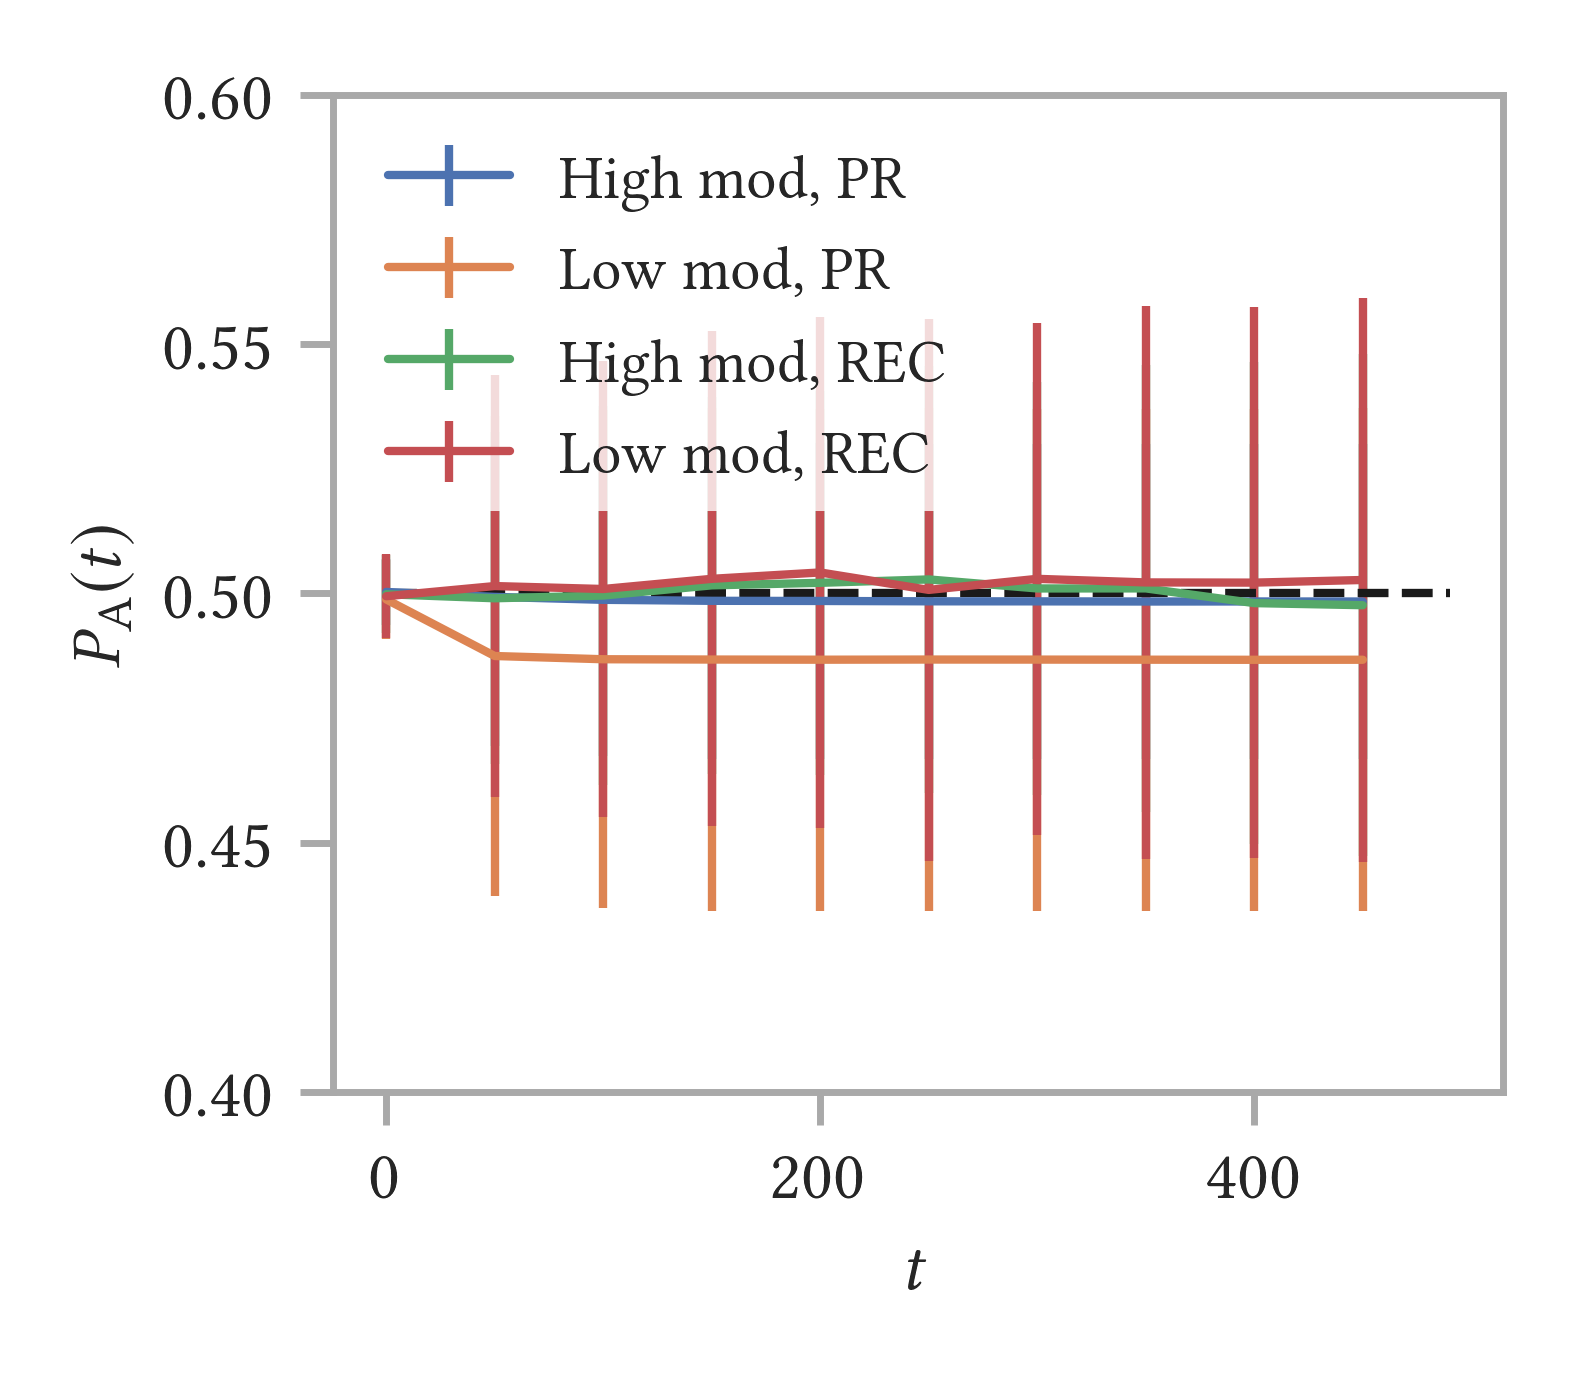
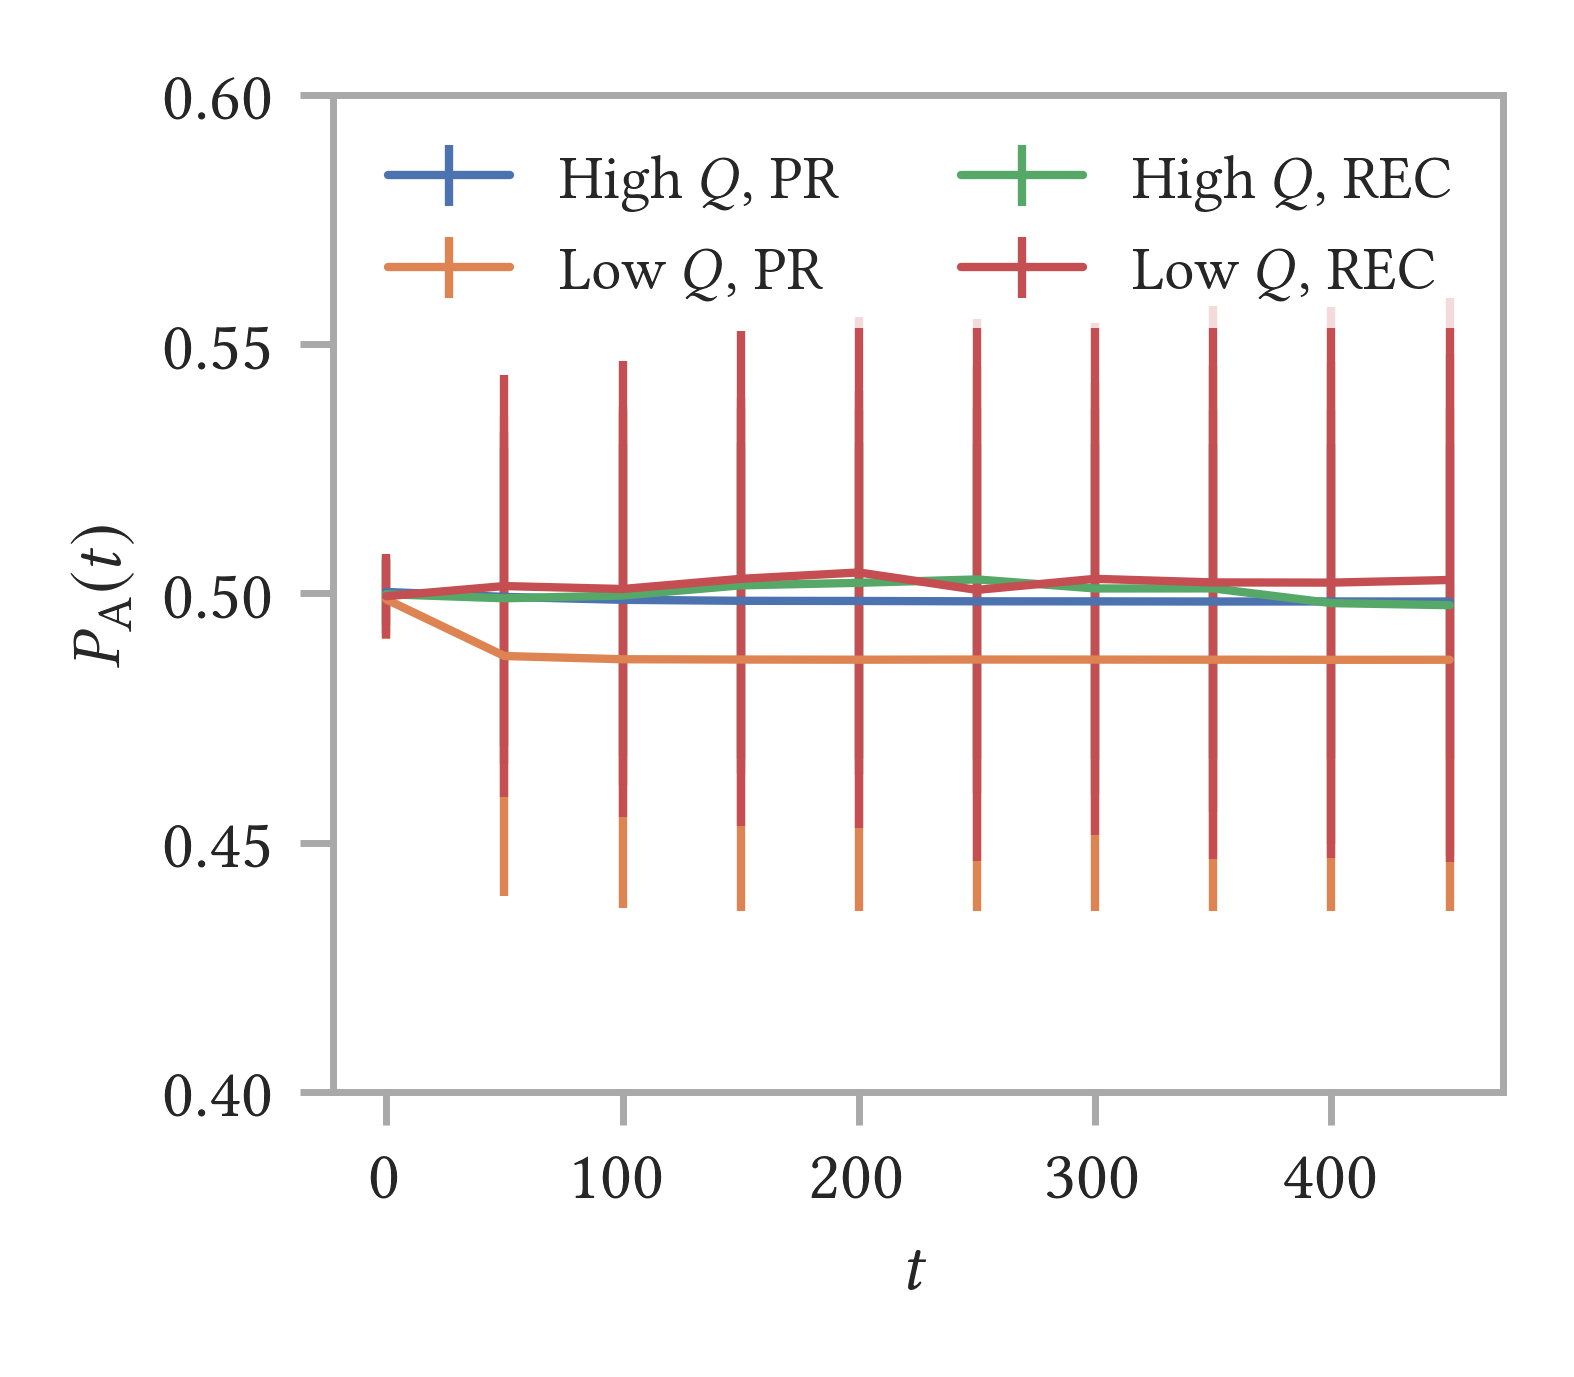
changed fig. 4.1 in thesis

diff --git a/Figures/Network_structure_evolution_of_opinions_50-50/plot_opinion_fractions1.py b/Figures/Network_structure_evolution_of_opinions_50-50/plot_opinion_fractions1.py
@@ -1,0 +1,209 @@
+import matplotlib.pyplot as plt
+import matplotlib.colors as colors
+import numpy as np
+import seaborn as sns
+from pathlib import Path
+import math
+import warnings
+from typing import Iterable, Optional
+from matplotlib.ticker import FormatStrFormatter
+
+def cm2inch(*tupl):
+    inch = 2.54
+    if isinstance(tupl[0], tuple):
+        return tuple(i/inch for i in tupl[0])
+    else:
+        return tuple(i/inch for i in tupl)
+
+
+def subplots(*args, figsize=None, **kwargs):
+    # figsize in cm instead of inches!
+    if figsize is not None:
+        return plt.subplots(*args, figsize=cm2inch(figsize), **kwargs)
+    else:
+        return plt.subplots(*args, **kwargs)
+
+
+def get_rc_params(usetex=True, font_family='serif', latex_preamble=None, font_serif=None, font_sans_serif=None,
+                  rc=None):
+    if rc is None:
+        rc = dict()
+    rc["text.usetex"] = usetex
+    rc["font.family"] = font_family
+    rc["axes.edgecolor"] = 'darkgrey'
+    if latex_preamble is not None:
+        rc["text.latex.preamble"] = latex_preamble
+    if font_serif is not None:
+        rc["font.serif"] = font_serif
+    if font_sans_serif is not None:
+        rc["font.sans-serif"] = font_sans_serif
+    return rc
+
+
+def get_latex_preamble(use_libertine=True, use_fontenc=True, use_inputenc=True, additional_pkgs=tuple()):
+    preamble = ''
+    if use_libertine:
+        preamble += r'\usepackage{libertine}' \
+                    r'\usepackage[libertine]{newtxmath}'
+
+    if use_fontenc:
+        preamble += r'\usepackage[T1]{fontenc}'
+
+    if use_inputenc:
+        preamble += r'\usepackage[utf8]{inputenc}'
+
+    for package in additional_pkgs:
+        if isinstance(package, str):
+            preamble += rf"\usepackage{{{package}}}"
+        elif isinstance(package, dict):
+            option = package["option"]
+            name = package["name"]
+            preamble += rf"\usepackage[{option}]{{{name}}}"
+        else:
+            raise ValueError(f"Unsupported type of package: {type(package)}!")
+    return preamble
+
+fractions1 = np.loadtxt('Fraction_of_opinions_SBM_50_50_no_stubb_paper8_active_01_av_good_init_PR_01-0001_10x100_T=0.txt')
+fractions2 = np.loadtxt('Fraction_of_opinions_SBM_50_50_no_stubb_paper8_active_01_av_good_init_PR_003-0008_10x100_T=0.txt')
+fractions3 = np.loadtxt('Fraction_of_opinions_SBM_active_01_av_good_init_REC_01-0001_10x100_all_res_stubb=0.txt')
+fractions4 = np.loadtxt('Fraction_of_opinions_SBM_50_50_no_stubb_paper8_active_01_av_good_init_REC_003-0008_10x100_T=0.txt')
+#fractions5 = np.loadtxt('Fraction_of_opinion0_comm_SBM_active_01_av_good_init_commOp0=05_other=50-50_PR_01-0001_10x100_T=0.txt')
+#fractions6 = np.loadtxt('Fraction_of_opinion0_comm_SBM_active_01_av_good_init_commOp0=06_other=50-50_PR_01-0001_10x100_T=0.txt')
+
+'''fractions7 = np.loadtxt('Fraction_of_opinion0_comm_SBM_active_01_av_good_init_commOp0=01_other=50-50_PR_01-0001_10x100_T=0_random=55-45.txt')
+fractions8 = np.loadtxt('Fraction_of_opinion0_comm_SBM_active_01_av_good_init_commOp0=02_other=50-50_PR_01-0001_10x100_T=0_random=60-40.txt')
+fractions9 = np.loadtxt('Fraction_of_opinion0_comm_SBM_active_01_av_good_init_commOp0=03_other=50-50_PR_01-0001_10x100_T=0_random=65-35.txt')
+fractions10 = np.loadtxt('Fraction_of_opinion0_comm_SBM_active_01_av_good_init_commOp0=04_other=50-50_PR_01-0001_10x100_T=0_random=70-30.txt')
+fractions11 = np.loadtxt('Fraction_of_opinion0_comm_SBM_active_01_av_good_init_commOp0=05_other=50-50_PR_01-0001_10x100_T=0_random=75-25.txt')
+fractions12 = np.loadtxt('Fraction_of_opinion0_comm_SBM_active_01_av_good_init_commOp0=06_other=50-50_PR_01-0001_10x100_T=0_random=80-20.txt')
+
+fractions13 = np.loadtxt('Fraction_of_opinion0_comm_SBM_active_01_av_good_init_commOp0=01_other=50-50_PR_003-0008_10x100_T=0.txt')
+fractions14 = np.loadtxt('Fraction_of_opinion0_comm_SBM_active_01_av_good_init_commOp0=02_other=50-50_PR_003-0008_10x100_T=0.txt')
+fractions15 = np.loadtxt('Fraction_of_opinion0_comm_SBM_active_01_av_good_init_commOp0=03_other=50-50_PR_003-0008_10x100_T=0.txt')
+fractions16 = np.loadtxt('Fraction_of_opinion0_comm_SBM_active_01_av_good_init_commOp0=04_other=50-50_PR_003-0008_10x100_T=0.txt')
+fractions17 = np.loadtxt('Fraction_of_opinion0_comm_SBM_active_01_av_good_init_commOp0=05_other=50-50_PR_003-0008_10x100_T=0.txt')
+fractions18 = np.loadtxt('Fraction_of_opinion0_comm_SBM_active_01_av_good_init_commOp0=06_other=50-50_PR_003-0008_10x100_T=0.txt')
+
+fractions19 = np.loadtxt('Fraction_of_opinion0_comm_SBM_active_01_av_good_init_commOp0=01_other=50-50_PR_003-0008_10x100_T=0_random=55-45.txt')
+fractions20 = np.loadtxt('Fraction_of_opinion0_comm_SBM_active_01_av_good_init_commOp0=02_other=50-50_PR_003-0008_10x100_T=0_random=60-40.txt')
+fractions21 = np.loadtxt('Fraction_of_opinion0_comm_SBM_active_01_av_good_init_commOp0=03_other=50-50_PR_003-0008_10x100_T=0_random=65-35.txt')
+fractions22 = np.loadtxt('Fraction_of_opinion0_comm_SBM_active_01_av_good_init_commOp0=04_other=50-50_PR_003-0008_10x100_T=0_random=70-30.txt')
+fractions23 = np.loadtxt('Fraction_of_opinion0_comm_SBM_active_01_av_good_init_commOp0=05_other=50-50_PR_003-0008_10x100_T=0_random=75-25.txt')
+fractions24 = np.loadtxt('Fraction_of_opinion0_comm_SBM_active_01_av_good_init_commOp0=06_other=50-50_PR_003-0008_10x100_T=0_random=80-20.txt')'''
+
+t = np.zeros(500)
+y = np.zeros(500)
+
+for i in range(len(t)):
+    t[i] = i
+    y[i] = 0.5
+
+'''x = [0.1, 0.2, 0.3, 0.4, 0.5, 0.6]
+
+begin = np.zeros(6)
+begin[0] = np.mean([np.mean(fractions1[:,0]), np.mean(fractions7[:,0]), np.mean(fractions13[:,0]), np.mean(fractions19[:,0])])
+begin[1] = np.mean([np.mean(fractions2[:,0]), np.mean(fractions8[:,0]), np.mean(fractions14[:,0]), np.mean(fractions20[:,0])])
+begin[2] = np.mean([np.mean(fractions3[:,0]), np.mean(fractions9[:,0]), np.mean(fractions15[:,0]), np.mean(fractions21[:,0])])
+begin[3] = np.mean([np.mean(fractions4[:,0]), np.mean(fractions10[:,0]), np.mean(fractions16[:,0]), np.mean(fractions22[:,0])])
+begin[4] = np.mean([np.mean(fractions5[:,0]), np.mean(fractions11[:,0]), np.mean(fractions17[:,0]), np.mean(fractions23[:,0])])
+begin[5] = np.mean([np.mean(fractions6[:,0]), np.mean(fractions12[:,0]), np.mean(fractions18[:,0]), np.mean(fractions24[:,0])])
+
+high_mod_comm = np.zeros(6)
+high_mod_comm[0] = np.mean(fractions1[:,1])
+high_mod_comm[1] = np.mean(fractions2[:,1])
+high_mod_comm[2] = np.mean(fractions3[:,1])
+high_mod_comm[3] = np.mean(fractions4[:,1])
+high_mod_comm[4] = np.mean(fractions5[:,1])
+high_mod_comm[5] = np.mean(fractions6[:,1])
+
+high_mod_rand = np.zeros(6)
+high_mod_rand[0] = np.mean(fractions7[:,1])
+high_mod_rand[1] = np.mean(fractions8[:,1])
+high_mod_rand[2] = np.mean(fractions9[:,1])
+high_mod_rand[3] = np.mean(fractions10[:,1])
+high_mod_rand[4] = np.mean(fractions11[:,1])
+high_mod_rand[5] = np.mean(fractions12[:,1])
+
+low_mod_comm = np.zeros(6)
+low_mod_comm[0] = np.mean(fractions13[:,1])
+low_mod_comm[1] = np.mean(fractions14[:,1])
+low_mod_comm[2] = np.mean(fractions15[:,1])
+low_mod_comm[3] = np.mean(fractions16[:,1])
+low_mod_comm[4] = np.mean(fractions17[:,1])
+low_mod_comm[5] = np.mean(fractions18[:,1])
+
+low_mod_rand = np.zeros(6)
+low_mod_rand[0] = np.mean(fractions19[:,1])
+low_mod_rand[1] = np.mean(fractions20[:,1])
+low_mod_rand[2] = np.mean(fractions21[:,1])
+low_mod_rand[3] = np.mean(fractions22[:,1])
+low_mod_rand[4] = np.mean(fractions23[:,1])
+low_mod_rand[5] = np.mean(fractions24[:,1])'''
+
+
+rc_params = get_rc_params(latex_preamble=get_latex_preamble(use_libertine=True))
+sns.set_theme(font="DejaVu Serif", rc=rc_params, style="ticks", context="paper")
+
+fig, ax = subplots(figsize=(8, 7))
+
+ax.errorbar(t[::50], fractions1[:,0][::50], np.sqrt(fractions1[:,2][::50]), label=r'High $Q$, PR')
+ax.errorbar(t[::50], fractions2[:,0][::50], np.sqrt(fractions2[:,2][::50]), label=r'Low $Q$, PR')
+ax.errorbar(t[::50], fractions3[:,0][::50], np.sqrt(fractions3[:,2][::50]), label=r'High $Q$, REC')
+ax.errorbar(t[::50], fractions4[:,0][::50], np.sqrt(fractions4[:,2][::50]), label=r'Low $Q$, REC')
+
+'''ax.plot(x, begin, 'k', label=r'Average fraction opinion 0 at $t=0$')
+ax.plot(x, high_mod_rand, 'cornflowerblue', linestyle='--', label=r'High mod, random distributed')
+ax.plot(x, high_mod_comm, 'peru', linestyle='--', label=r'High mod, comm. distributed')
+ax.plot(x, low_mod_rand, 'forestgreen', linestyle='--', label=r'Low mod, random distributed')
+ax.plot(x, low_mod_comm, 'firebrick', linestyle='--', label=r'Low mod, comm. distributed')'''
+
+'''ax.errorbar(t[::50], fractions4[:,0][::50], np.sqrt(fractions1[:,2][::50]), label=r'High mod, $r = 0$')
+ax.errorbar(t[::50], fractions5[:,0][::50], np.sqrt(fractions2[:,2][::50]), label=r'High mod, $r = 0.4$')
+ax.errorbar(t[::50], fractions6[:,0][::50], np.sqrt(fractions3[:,2][::50]), label=r'High mod, $r = 0.8$')'''
+
+#ax.errorbar(t[::50], fractions7[:,0][::50], np.sqrt(fractions1[:,2][::50]), label=r'fracRes $= 0.8$')
+#ax.errorbar(t[::50], fractions8[:,0][::50], np.sqrt(fractions2[:,2][::50]), label=r'REF, fracRes $= 0.8$')
+#ax.errorbar(t[::50], fractions9[:,0][::50], np.sqrt(fractions3[:,2][::50]), label=r'fracRes $= 0.8$')
+#plt.plot(t[::10], fractions_sameComm02[:,0][::10], label='0.4 community opinion 0 (same comm.), other 50/50; REC')
+#ax.plot(t[::10], y[::10], 'k--')
+#plt.plot(t, fractions_25_av[:,0], label='Stubborness = 0.25')
+#plt.plot(t, fractions_1_av[:,1], label='Stubborness = 1')
+ax.set_xlabel(r"$t$", fontsize=10)
+ax.set_ylabel(r"$P_\text{A}(t)$", fontsize=10)
+ax.tick_params(labelsize=10, color='darkgrey')
+legend = ax.legend(loc='upper left', ncol=2)
+legend.get_frame().set_linewidth(0.0)
+ax.yaxis.set_major_formatter(FormatStrFormatter('%.2f'))
+ax.set_ylim(0.4, 0.6)
+#ax.set_ylim(-0.2, 1.2)
+#ax.set_title('WS', fontsize=10)
+plt.tight_layout()
+plt.savefig("fraction_of_opinions_SBM_10x100_01-0001_003-0008_50-50_PR_REC_8x7.png", dpi=500)
+plt.show()
+
+"""fig, axes = plt.subplots(nrows=1, ncols=2, figsize=(10, 4))
+st = fig.suptitle("Stochastic block model (100 x 10), 10 x 10 averaged")
+#axes[0].plot(t, y)
+#axes[0].plot(t[::10], fractions_av0[:,0][::10], label='Opinion 0')
+axes[0].plot(t[::10], fractions_REC[:,1][::10], label='Opinion 1, REC')
+axes[0].legend(loc='best')
+axes[0].set_xlabel("Timesteps t")
+axes[0].set_ylabel("Opinion fraction inside a community, REC")
+axes[0].set_ylim(0.39, 0.55)
+axes[0].title.set_text("Opinion fraction inside a community vs time, REC, 50/50\n"r"$p_{cl}$ = 0.1, $p_{add}$ = 0.001")
+
+axes[1].plot(t[::10], fractions_PR[:,1][::10], label='Opinion 1, PR')
+#axes[1].plot(t[::10], fractions_av3[:,1][::10], label='Standard deviation')
+#axes[1].plot(t, y)
+axes[1].legend(loc='best')
+axes[1].set_xlabel("Timesteps t")
+axes[1].set_ylabel("Opinion fraction inside a community, PR")
+axes[1].set_ylim(0.40, 0.45)
+axes[1].title.set_text("Opinion fraction inside a community vs time, PR, 50/50\n"r"$p_{cl}$ = 0.1, $p_{add}$ = 0.001")
+# shift subplots down:
+st.set_y(0.03)
+fig.subplots_adjust(bottom=0.1)
+
+fig.tight_layout()
+fig.savefig('Fraction_of_opinions_Clustered_Cluster5_01-0001_50_50_no_stubb_paper8_active_01_av_good_init_100x10_REC_PR.png')
+plt.show()"""
